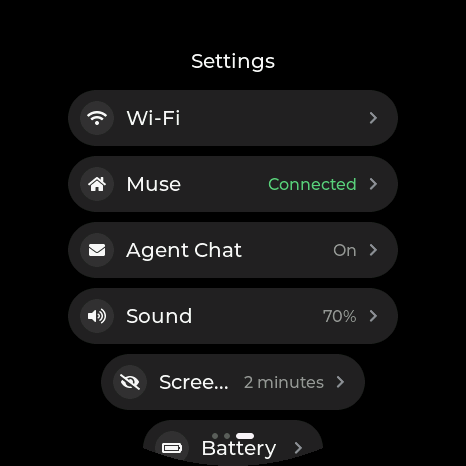
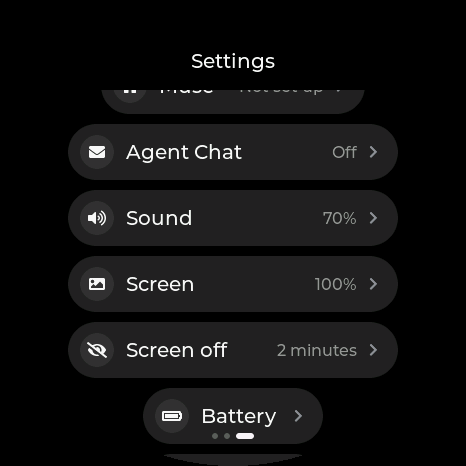
Muse gadget guide: Settings has Screen, split from Sound
Claude-Session: https://claude.ai/code/session_016shWURBXXspMSLmpPd7Luz

diff --git a/worker/routes/pages.ts b/worker/routes/pages.ts
@@ -242,7 +242,7 @@ const MUSE_GADGET_BODY = `
 <p>Right after pairing, the gadget asks whether to set up Agent Chat. <b>Set up</b> opens the Agent Chat page, ready to connect; <b>Skip</b> leaves it for later, and you can always open it from Settings.</p>
 <figure><img src="/muse-gadget/agent-chat-offer.png" width="466" height="466" alt="The Agent Chat app icon, and the gadget asks: Set up Agent Chat? Wake your agent when its chat rooms get news. Buttons Skip and Set up"><figcaption>Shown once, the first time the gadget is online after pairing.</figcaption></figure>
 <p>Your agent needs to be a member of at least one Agent Chat room first: someone in the room sends it an invite link, which you pass to your agent in your Muse chat.</p>
-<figure><img src="/muse-gadget/settings.png" width="466" height="466" alt="The Settings list: Wi-Fi, Muse (Connected), Agent Chat (On), Sound and Screen off"><figcaption>Settings, one swipe left from the home screen (the Wi-Fi network name is blanked here). The Agent Chat row says Off until you connect.</figcaption></figure>
+<figure><img src="/muse-gadget/settings.png" width="466" height="466" alt="The Settings list, scrolled: Agent Chat (Off), Sound (70%), Screen (100%), Screen off (2 minutes) and Battery"><figcaption>Settings, one swipe left from the home screen, scrolled past Wi-Fi and Muse. Sound has the volume and microphone; Screen has the brightness and text size. The Agent Chat row says Off until you connect.</figcaption></figure>
 <ol>
 <li>On the gadget, open <b>Settings, then Agent Chat</b>. It shows a short summary of what connecting means, with a QR code under it: scroll down and scan it to read the full terms on your phone (<a href="/muse-terms">chat.victorio.cloud/muse-terms</a>).</li>
 </ol>
